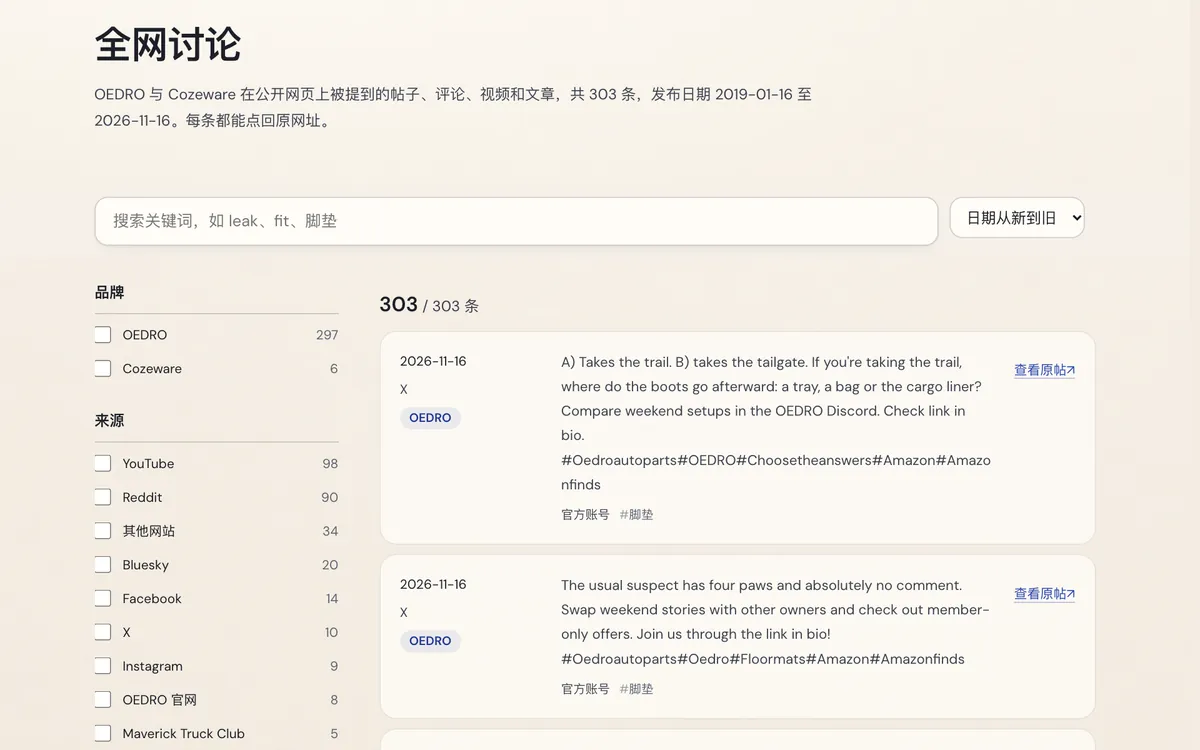
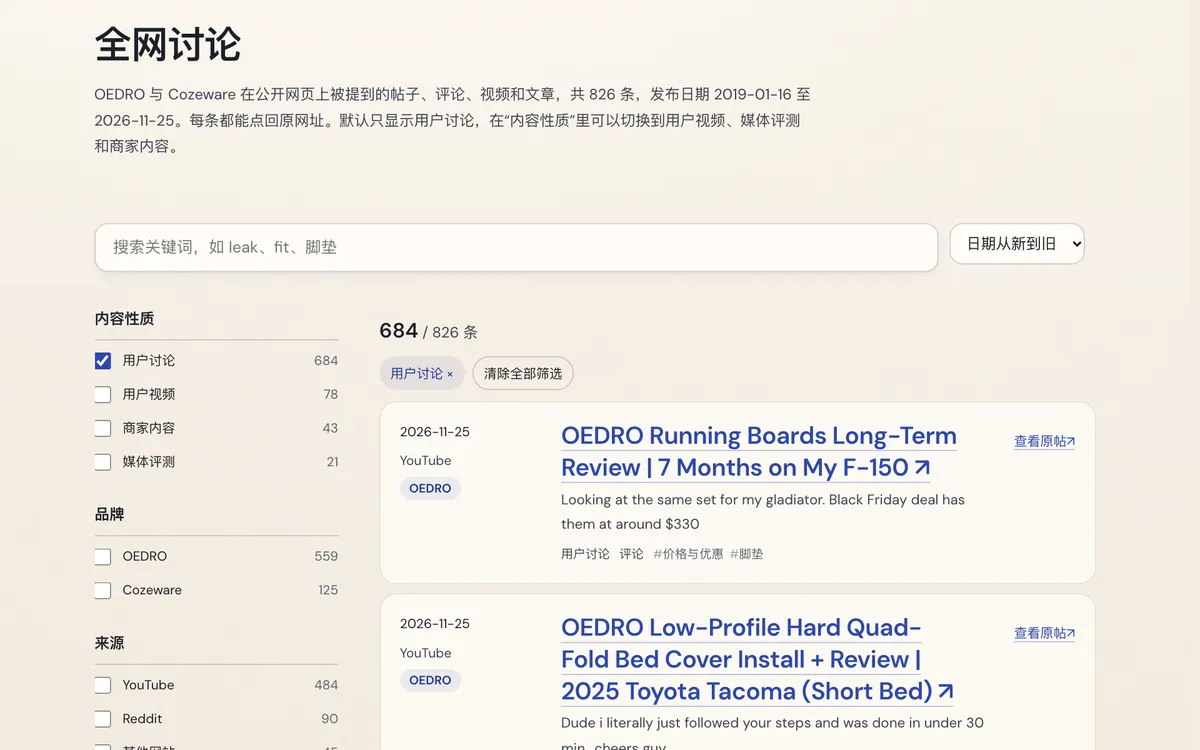
Keep the 全网讨论 showcase in step with the growing library

diff --git a/ai-dev-voice.html b/ai-dev-voice.html
@@ -86,7 +86,7 @@
 <button aria-expanded="false" aria-label="打开导航" class="menu-button" type="button">☰</button>
 <div class="breadcrumb">海外用户运营 / <strong id="breadcrumb-page">用户声音雷达</strong></div>
 </header>
-<main class="main-content aidev" id="content"><header class="page-heading"><h1>全网讨论</h1><p>OEDRO 与 Cozeware 在公开网页上被提到的帖子、评论、视频和文章，按品牌、来源、话题和日期筛选，也能全文搜索，每条都能点回原网址。</p></header><section class="aidev-stage"><div class="aidev-frame" data-frame data-device="desktop"><div class="aidev-bar"><span>全网讨论</span><div class="aidev-bar-end"><div class="aidev-seg" role="group" aria-label="屏幕宽度"><button type="button" data-device="desktop" aria-pressed="true">电脑</button><button type="button" data-device="phone" aria-pressed="false">手机</button></div><a class="aidev-open" data-open href="user-voice.html" target="_blank" rel="noopener">新窗口打开 ↗</a></div></div><div class="aidev-viewport is-tall"><iframe title="全网讨论" src="user-voice.html?embed=1" sandbox="allow-scripts allow-same-origin allow-forms allow-popups" loading="lazy" referrerpolicy="no-referrer"></iframe></div></div></section><section class="aidev-brief" aria-label="概要"><div><h2>解决的问题<span class="en">Problem</span></h2><p>品牌在 YouTube、Reddit、Bluesky 和车友论坛里被提到的内容分散在各处，逐个平台去翻既慢又容易漏。</p></div><div><h2>它能做什么<span class="en">What it does</span></h2><p>把公开讨论汇成一个可检索的库：按品牌、来源、话题、内容类型和与品牌的关系筛选，支持日期范围和全文搜索；手机上筛选收进底部面板。数据分块加载，筛选在浏览器里完成。</p></div><div><h2>现在的用法<span class="en">In use</span></h2><p>在 Hub 里直接打开，每条都链接回原网址，可以顺着原帖继续看上下文。</p></div></section><dl class="aidev-facts"><div><dt>收录</dt><dd>303 条<span>帖子、评论、视频和文章</span></dd></div><div><dt>来源</dt><dd>13 类<span>YouTube、Reddit、Bluesky、Facebook 等</span></dd></div><div><dt>发布日期</dt><dd>2019-01-16 – 2026-11-16<span>另有部分内容无发布日期</span></dd></div><div><dt>上线</dt><dd>2026-11-25<span>首版</span></dd></div></dl></main>
+<main class="main-content aidev" id="content"><header class="page-heading"><h1>全网讨论</h1><p>OEDRO 与 Cozeware 在公开网页上被提到的帖子、评论、视频和文章，按品牌、来源、话题和日期筛选，也能全文搜索，每条都能点回原网址。</p></header><section class="aidev-stage"><div class="aidev-frame" data-frame data-device="desktop"><div class="aidev-bar"><span>全网讨论</span><div class="aidev-bar-end"><div class="aidev-seg" role="group" aria-label="屏幕宽度"><button type="button" data-device="desktop" aria-pressed="true">电脑</button><button type="button" data-device="phone" aria-pressed="false">手机</button></div><a class="aidev-open" data-open href="user-voice.html" target="_blank" rel="noopener">新窗口打开 ↗</a></div></div><div class="aidev-viewport is-tall"><iframe title="全网讨论" src="user-voice.html?embed=1" sandbox="allow-scripts allow-same-origin allow-forms allow-popups" loading="lazy" referrerpolicy="no-referrer"></iframe></div></div></section><section class="aidev-brief" aria-label="概要"><div><h2>解决的问题<span class="en">Problem</span></h2><p>品牌在 YouTube、Reddit、Bluesky 和车友论坛里被提到的内容分散在各处，逐个平台去翻既慢又容易漏。</p></div><div><h2>它能做什么<span class="en">What it does</span></h2><p>把公开讨论汇成一个可检索的库：按品牌、来源、话题、内容类型和与品牌的关系筛选，支持日期范围和全文搜索；默认只显示用户讨论，也能切换到用户视频、媒体评测和商家内容。手机上筛选收进底部面板。数据分块加载，筛选在浏览器里完成。</p></div><div><h2>现在的用法<span class="en">In use</span></h2><p>在 Hub 里直接打开，每条都链接回原网址，可以顺着原帖继续看上下文。</p></div></section><dl class="aidev-facts"><div><dt>收录</dt><dd><span data-fw="total" class="aidev-live">826</span> 条<span>帖子、评论、视频和文章</span></dd></div><div><dt>来源</dt><dd>13 类<span>YouTube、Reddit、Bluesky、Facebook 等</span></dd></div><div><dt>发布日期</dt><dd><span data-fw="min_date" class="aidev-live">2019-01-16</span> – <span data-fw="max_date" class="aidev-live">2026-11-25</span><span>另有部分内容无发布日期</span></dd></div><div><dt>上线</dt><dd>2026-11-25<span>首版</span></dd></div></dl></main>
 </div>
 </div>
 <script src="ai-dev.js?v=hub27"></script>

diff --git a/ai-dev.css b/ai-dev.css
@@ -111,7 +111,8 @@
 .aidev-facts > div { min-width: 0; padding: 20px 22px; border-radius: 18px; background: var(--surface-raised); box-shadow: inset 0 0 0 1px var(--border); }
 .aidev-facts dt { margin: 0 0 8px; font-size: 14px; letter-spacing: .02em; color: var(--text-muted); }
 .aidev-facts dd { margin: 0; font-size: 20px; line-height: 1.35; font-weight: 650; letter-spacing: -.01em; font-variant-numeric: tabular-nums; color: var(--text); }
-.aidev-facts dd span { display: block; margin-top: 6px; font-size: 14px; font-weight: 400; letter-spacing: 0; line-height: 1.55; color: var(--text-secondary); }
+.aidev-facts dd span.aidev-live { display: inline; margin: 0; font-size: inherit; font-weight: inherit; color: inherit; line-height: inherit; }
+.aidev-facts dd span:not(.aidev-live) { display: block; margin-top: 6px; font-size: 14px; font-weight: 400; letter-spacing: 0; line-height: 1.55; color: var(--text-secondary); }
 
 /* Bruno beside the bot */
 .aidev-character { display: grid; grid-template-columns: 112px minmax(0, 1fr); gap: 24px; align-items: center; margin: 48px 0 0; padding: 24px; border-radius: 22px; background: var(--surface-raised); box-shadow: var(--shadow-1); }

diff --git a/ai-dev.js b/ai-dev.js
@@ -9,6 +9,15 @@
     try { return node ? JSON.parse(node.textContent) : null; } catch (error) { return null; }
   };
 
+  // 全网讨论的收录数、日期范围随数据更新
+  const live = document.querySelectorAll('[data-fw]');
+  if (live.length) {
+    fetch('data/fullweb/index.json', { cache: 'no-store' }).then((r) => (r.ok ? r.json() : null)).then((meta) => {
+      if (!meta) return;
+      live.forEach((node) => { const value = meta[node.dataset.fw]; if (value !== undefined && value !== null) node.textContent = Number.isFinite(value) ? value.toLocaleString('en-US') : value; });
+    }).catch(() => {});
+  }
+
   // 嵌入页面：选页面、切电脑／手机宽度、点击后才加载外部演示
   document.querySelectorAll('[data-frame]').forEach((frame) => {
     const iframe = frame.querySelector('iframe');
